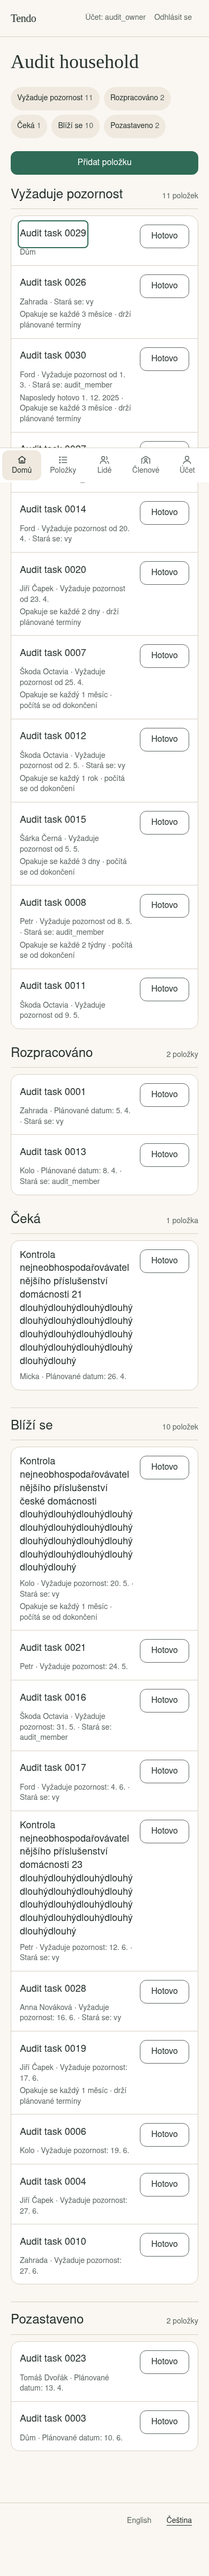
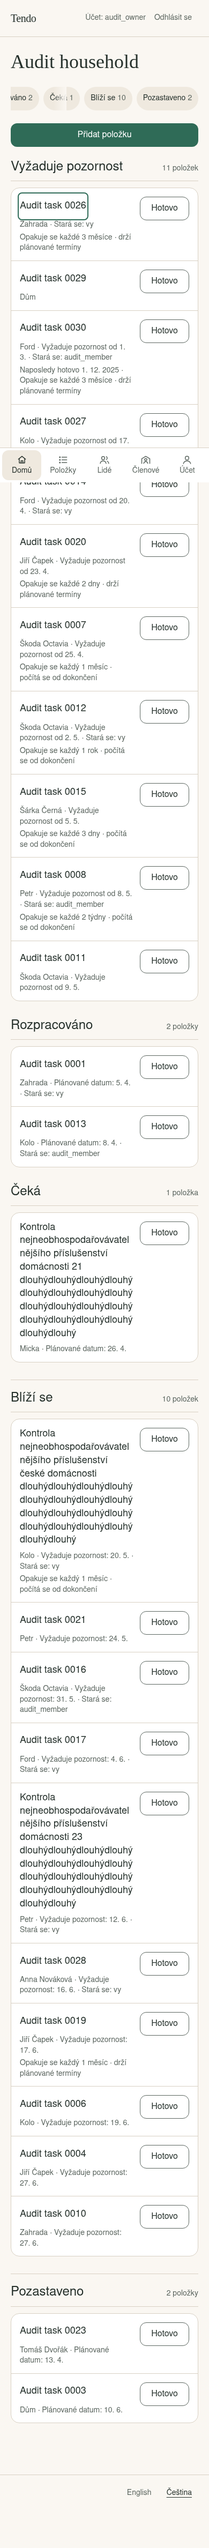
fix(home): preserve focus and balance large layouts

diff --git a/frontend/src/features/items/ItemsScreen.test.tsx b/frontend/src/features/items/ItemsScreen.test.tsx
@@ -751,6 +751,25 @@ describe('Home items', () => {
     expect([...rows].filter((row) => row.querySelector('a > span[aria-hidden="true"]')).map((row) => row.querySelector('a > span[aria-hidden="true"]')?.textContent)).toEqual(['Need now', 'Started', 'Waiting item', 'Future item', 'Paused item']);
   });
 
+  it('stacks independently paged groups when secondary content greatly exceeds attention', async () => {
+    const entries = [
+      ...Array.from({ length: 2 }, (_, index) => item({ id: `scale-needs-${index}`, title: `Scale needs ${index}` })),
+      ...Array.from({ length: 20 }, (_, index) => item({ id: `scale-progress-${index}`, title: `Scale progress ${index}`, workflowState: 'in_progress' })),
+    ];
+    installFakeServer({ ...routes, ...itemRoutes(base, entries), [subjectList]: subjects });
+    app();
+    await screen.findByRole('link', { name: 'Open item Scale needs 0' });
+    const main = screen.getByRole('main');
+    expect(main.querySelector('[data-home-layout="balanced-stacked"]')).toBeInTheDocument();
+    expect(main.querySelector('.lg\\:grid-cols-\\[minmax\\(0\\,1\\.35fr\\)_minmax\\(20rem\\,1fr\\)\\]')).toBeNull();
+    const needs = within(main).getByRole('heading', { level: 2, name: 'Needs attention 2 items' }).closest('section')!;
+    const progress = within(main).getByRole('heading', { level: 2, name: 'In progress 20 items' }).closest('section')!;
+    expect(within(needs).getAllByRole('listitem')).toHaveLength(2);
+    expect(within(progress).getAllByRole('listitem')).toHaveLength(20);
+    const overview = within(main).getByRole('navigation', { name: 'Group overview' });
+    expect(within(overview).getByRole('link', { name: 'In progress 20 items' })).toBeVisible();
+  });
+
   it('uses a full-width secondary layout when Needs attention is empty', async () => {
     installFakeServer({ ...routes, ...itemRoutes(base, [item({ workflowState: 'in_progress' })]), [subjectList]: subjects });
     app();
@@ -1307,7 +1326,7 @@ describe('Home items', () => {
     expect(add).toBeEnabled();
     expect(screen.getByRole('button', { name: /Done:/ })).toBeDisabled();
     release();
-    await waitFor(() => expect(screen.queryByRole('button', { name: 'Add item' })).toBeEnabled());
+    await waitFor(() => expect(add).toBeEnabled());
   });
 
   it('focuses the restored group heading when undo restores an unloaded row', async () => {
@@ -1468,6 +1487,52 @@ describe('Home items', () => {
     await waitFor(() => expect(screen.getByRole('button', { name: /Done:/ })).toBeEnabled());
     await act(async () => { await new Promise((resolve) => setTimeout(resolve, 50)); });
     expect(screen.queryByRole('button', { name: 'Undo' })).toBeNull();
+    expect(add).toHaveFocus();
+  });
+
+  it('keeps the same Add button focused when Undo repopulates empty Home', async () => {
+    let completed = false;
+    let releaseUndo: (() => void) | undefined;
+    const receipt = { id: 'c-empty-undo', itemId: 'i-1', completedOn: '2026-01-01', completedByUserId: 'u-1', cycleAttentionOn: null, recurrence: null, nextAttentionOn: null, createdAt: '2026-01-01T00:00:00Z', undoneAt: null, undoneByUserId: null };
+    installFakeServer({
+      ...routes,
+      ...itemRoutes(base, () => completed ? [] : [item()]),
+      [subjectList]: subjects,
+      [`GET ${base}/items/i-1`]: () => json(200, item(), { ETag: completed ? '"8"' : '"7"' }),
+      [`POST ${donePath}`]: () => { completed = true; return json(201, receipt); },
+      [`PATCH ${donePath}/c-empty-undo`]: () => new Promise<Response>((resolve) => {
+        releaseUndo = () => { completed = false; resolve(json(200, { ...receipt, undoneAt: '2026-01-02T00:00:00Z', undoneByUserId: 'u-1' })); };
+      }),
+    });
+    app();
+    await userEvent.click(await screen.findByRole('button', { name: /Done:/ }));
+    await screen.findByText('Nothing needs attention right now.');
+    await userEvent.click(await screen.findByRole('button', { name: 'Undo' }));
+    await waitFor(() => expect(releaseUndo).toBeDefined());
+    const add = screen.getByRole('button', { name: 'Add item' });
+    add.focus();
+    await act(async () => releaseUndo!());
+    await screen.findByRole('link', { name: 'Open item Renew passport' });
+    expect(screen.getByRole('button', { name: 'Add item' })).toBe(add);
+    expect(add).toHaveFocus();
+  });
+
+  it('keeps Add focused when completing the last item makes Home empty', async () => {
+    let done = false;
+    const receipt = { id: 'c-empty-done', itemId: 'i-1', completedOn: '2026-01-01', completedByUserId: 'u-1', cycleAttentionOn: null, recurrence: null, nextAttentionOn: null, createdAt: '2026-01-01T00:00:00Z', undoneAt: null, undoneByUserId: null };
+    installFakeServer({
+      ...routes,
+      ...itemRoutes(base, () => done ? [] : [item()]),
+      [subjectList]: subjects,
+      [`GET ${base}/items/i-1`]: json(200, item(), { ETag: '"7"' }),
+      [`POST ${donePath}`]: () => { done = true; return json(201, receipt); },
+    });
+    app();
+    await userEvent.click(await screen.findByRole('button', { name: /Done:/ }));
+    const add = screen.getByRole('button', { name: 'Add item' });
+    add.focus();
+    await screen.findByText('Nothing needs attention right now.');
+    expect(screen.getByRole('button', { name: 'Add item' })).toBe(add);
     expect(add).toHaveFocus();
   });
 

diff --git a/frontend/src/features/items/ItemsScreen.tsx b/frontend/src/features/items/ItemsScreen.tsx
@@ -1,4 +1,4 @@
-import { useMemo, useRef, useState } from 'react';
+import { useMemo, useRef, useState, type RefObject } from 'react';
 import { Button } from '../../components/ui/button';
 import { useI18n } from '../../i18n';
 import { useSubjectLabels } from './useSubjectLabels';
@@ -88,7 +88,8 @@ export function ItemsScreen(props: ItemsScreenProps) {
   const { userId, onOpenPeople, onOpenItem, onOpenAllItems } = props;
   const screen = useItemsScreen(props);
   const { t, busy, home, homeMembers, noticeRef, addRef, notice, visibleSubjectIDs, labels, labelRetry, add, recovering, completion } = screen;
-  const { cancelAddAndFocus, subjectName, emptyHome } = screen;
+  const { cancelAddAndFocus, subjectName, emptyHome: isEmptyHome = false } = screen;
+  const emptyHome = Boolean(isEmptyHome);
   const { groupData, summary, loading, error, refresh, sectionHeadingRefs } = home;
   const { adding, createNotice, names, pendingCreate, createUncertain, recoveryEditable } = add;
 
@@ -116,17 +117,10 @@ export function ItemsScreen(props: ItemsScreenProps) {
       ? <p role="status" className="sr-only">{t('items.subjectLabels.loading')}</p>
       : null}
     <SubjectLabelRetry hasFailures={labels.hasFailures} pending={labelRetry.pending} retryRef={labelRetry.retryRef} onRetry={labelRetry.retry} />
-    {emptyHome ? <HomeEmptyState onAdd={add.openAddForm} addRef={addRef} /> : null}
     {!loading && summary && !adding
       ? <HomeOverviewNav summary={summary} groupData={groupData} sectionHeadingRefs={sectionHeadingRefs} />
       : null}
-    {home.itemsRequestComplete && !adding && !emptyHome
-      ? <div className="flex justify-start">
-        <Button ref={addRef} data-action="completion-trigger" type="button" onClick={add.openAddForm} className="w-full sm:w-auto">
-          {t('items.add')}
-        </Button>
-      </div>
-      : null}
+    <HomeActions empty={emptyHome} ready={home.itemsRequestComplete} adding={adding} addRef={addRef} onAdd={add.openAddForm} />
     <AddItemPanel
       adding={adding}
       busy={busy}
@@ -159,5 +153,32 @@ export function ItemsScreen(props: ItemsScreenProps) {
       onDone={(itemId) => void completion.finish(itemId)}
       onOpenItem={onOpenItem}
     /> : null}
+  </div>;
+}
+
+function HomeActions({ empty, ready, adding, addRef, onAdd }: {
+  empty: boolean;
+  ready: boolean;
+  adding: boolean;
+  addRef: RefObject<HTMLButtonElement | null>;
+  onAdd: () => void;
+}) {
+  const { t } = useI18n();
+  if (!ready) return null;
+  return <div className="space-y-4">
+    <div className={`flex justify-start ${adding ? 'hidden' : ''}`}>
+      <Button
+        ref={addRef}
+        data-action="completion-trigger"
+        type="button"
+        aria-hidden={adding}
+        tabIndex={adding ? -1 : 0}
+        onClick={onAdd}
+        className="w-full sm:w-auto"
+      >
+        {t('items.add')}
+      </Button>
+    </div>
+    {empty ? <HomeEmptyState /> : null}
   </div>;
 }

diff --git a/frontend/src/features/items/HomeOverview.tsx b/frontend/src/features/items/HomeOverview.tsx
@@ -6,8 +6,8 @@ import { countPluralKey } from './itemsScreenHelpers';
 import { groups, type GroupData } from './homeGroups';
 import type { CreateNotice } from './useAddItem';
 
-const overviewLinkClass = 'inline-flex min-h-11 items-center gap-1 rounded-full bg-sand px-3 text-sm font-medium text-ink '
-  + 'transition-colors hover:bg-sunken focus-visible:outline-2 focus-visible:outline-offset-2 focus-visible:outline-accent';
+const overviewLinkClass = 'inline-flex min-h-11 shrink-0 items-center gap-1 rounded-full bg-sand px-3 text-sm font-medium text-ink '
+  + 'transition-colors hover:bg-sand focus-visible:outline-2 focus-visible:outline-offset-2 focus-visible:outline-accent';
 
 /** Completion/undo outcome shown in the home notice area; Undo and retry controls depend on its fields. */
 export type Notice = {
@@ -104,7 +104,24 @@ export function HomeOverviewNav({ summary, groupData, sectionHeadingRefs }: Over
   // Overview links only target sections that actually render (summary count and loaded rows), so every link has a heading to focus.
   const overviewGroups = groups.filter((group) => summary[group.count] > 0 && groupData[group.id].items.length > 0);
   if (overviewGroups.length < 2) return null;
-  return <nav aria-label={t('items.group.overview')} className="flex flex-wrap gap-2">
+  return <nav
+    aria-label={t('items.group.overview')}
+    className={[
+      'relative flex w-full min-w-0 snap-x snap-mandatory gap-2 overflow-x-auto overscroll-x-contain',
+      '[scrollbar-width:none] [&::-webkit-scrollbar]:hidden',
+      'after:pointer-events-none after:absolute after:inset-y-0 after:right-0 after:w-6',
+      'after:bg-gradient-to-l after:from-paper after:to-transparent',
+    ].join(' ')}
+    onFocusCapture={(event) => {
+      const link = event.target;
+      const nav = event.currentTarget;
+      if (!(link instanceof HTMLElement)) return;
+      const navRect = nav.getBoundingClientRect();
+      const linkRect = link.getBoundingClientRect();
+      if (linkRect.left < navRect.left) nav.scrollLeft -= navRect.left - linkRect.left;
+      else if (linkRect.right > navRect.right) nav.scrollLeft += linkRect.right - navRect.right;
+    }}
+  >
     {overviewGroups.map((group) => <a
       key={group.id}
       href={`#group-${group.id}`}
@@ -115,7 +132,7 @@ export function HomeOverviewNav({ summary, groupData, sectionHeadingRefs }: Over
         event.preventDefault();
         sectionHeadingRefs.current.get(group.id)?.focus();
       }}
-      className={overviewLinkClass}
+      className={`${overviewLinkClass} snap-start`}
     >{t(group.key)} <span className="text-muted">{summary[group.count]}</span></a>)}
   </nav>;
 }

diff --git a/frontend/src/features/items/HomeGroupList.tsx b/frontend/src/features/items/HomeGroupList.tsx
@@ -23,6 +23,7 @@ type HomeGroupListProps = {
 };
 
 const TWO_COLUMN_CLASS = 'grid grid-cols-1 items-start gap-8 lg:grid-cols-[minmax(0,1.35fr)_minmax(20rem,1fr)]';
+const STACKED_CLASS = 'grid grid-cols-1 items-start gap-8';
 
 /** Puts attention first and lets the quieter groups form an independent desktop column. */
 export function HomeGroupList(props: HomeGroupListProps) {
@@ -62,11 +63,13 @@ export function HomeGroupList(props: HomeGroupListProps) {
   const primary = groups[0]!;
   const secondary = groups.slice(1);
   const hasPrimary = groupData[primary.id].items.length > 0;
-  const layoutClass = hasPrimary ? TWO_COLUMN_CLASS : 'grid grid-cols-1 items-start';
-  const columnClass = 'min-w-0 space-y-8';
-  const layoutName = hasPrimary ? 'attention-and-secondary' : 'secondary-only';
+  const secondaryCount = secondary.reduce((total, group) => total + groupData[group.id].items.length, 0);
+  const needsCount = groupData[primary.id].items.length;
+  const secondaryDominates = hasPrimary && secondaryCount >= Math.max(20, needsCount * 3);
+  const layoutClass = hasPrimary && !secondaryDominates ? TWO_COLUMN_CLASS : STACKED_CLASS;
+  const layoutName = !hasPrimary ? 'secondary-only' : secondaryDominates ? 'balanced-stacked' : 'attention-and-secondary';
   return <div data-home-layout={layoutName} className={layoutClass}>
-    {hasPrimary ? <div className={columnClass}>{renderGroup(primary)}</div> : null}
-    <div className={columnClass}>{secondary.map(renderGroup)}</div>
+    {hasPrimary ? renderGroup(primary) : null}
+    {secondary.map(renderGroup)}
   </div>;
 }

diff --git a/frontend/e2e/ux-audit.spec.ts b/frontend/e2e/ux-audit.spec.ts
@@ -662,6 +662,11 @@ Třetí odstavec obsahuje další důležité podrobnosti, které mají zůstat 
         (metrics.stages[`1200-en-${width}`] as Record<string, unknown>).showMoreClicks = clickMetrics;
         (metrics.stages[`1200-en-${width}`] as Record<string, unknown>).seeAllLinks = await page.locator('main a[data-group-all]').evaluateAll(links => links.map(link => ({ group: link.getAttribute('data-group-all'), label: link.textContent?.trim() })));
         await capture(page, join(dir, `home-1200-en-${width}-expanded.png`), false);
+        if (width === 1440) {
+          await page.locator('html').evaluate((html) => html.setAttribute('data-theme', 'dark'));
+          await capture(page, join(dir, `home-1200-en-${width}-forced-dark.png`), false);
+          await page.locator('html').evaluate((html) => html.removeAttribute('data-theme'));
+        }
       }
       const darkContext = await browser.newContext({ colorScheme: 'dark', reducedMotion: 'reduce', viewport: { width: 390, height: 844 } });
       await darkContext.addCookies(await page.context().cookies());

diff --git a/frontend/e2e/journey.spec.ts b/frontend/e2e/journey.spec.ts
@@ -1872,7 +1872,9 @@ test.describe('Tendo production journey', () => {
       }));
       const initialUniqueSubjects = new Set(renderedItems.map((item) => item.subjectId));
       expect(initialUniqueSubjects.size).toBe(4);
-      await expect(main.locator('li[data-item-id]').filter({ hasText: visibleTitles[0]! }).locator('p').first()).toContainText(archivedSubject.name);
+      const archivedRowMetadata = main.locator('li[data-item-id]').filter({ hasText: visibleTitles[0]! }).locator('p').first();
+      await expect(archivedRowMetadata).toBeVisible();
+      await expect(archivedRowMetadata).toContainText(archivedSubject.name);
       await expect.poll(() => subjectRequests.length).toBe(2 * Math.ceil(initialUniqueSubjects.size / 100));
       expect(subjectRequests.every((url) => url.searchParams.has('id'))).toBe(true);
       expect(subjectRequests.filter((url) => url.searchParams.get('archived') === 'true')).toHaveLength(Math.ceil(initialUniqueSubjects.size / 100));

diff --git a/frontend/src/features/items/HomeStates.tsx b/frontend/src/features/items/HomeStates.tsx
@@ -1,4 +1,3 @@
-import type { RefObject } from 'react';
 import { Button } from '../../components/ui/button';
 import { EmptyState } from '../../components/ui/empty-state';
 import { Notice } from '../../components/ui/notice';
@@ -21,11 +20,9 @@ export function HomeLoadState({ loading, error, onRetry }: { loading: boolean; e
   </>;
 }
 
-export function HomeEmptyState({ onAdd, addRef }: { onAdd: () => void; addRef: RefObject<HTMLButtonElement | null> }) {
+export function HomeEmptyState() {
   const { t } = useI18n();
-  return <EmptyState title={t('home.empty.title')} action={
-    <Button ref={addRef} type="button" onClick={onAdd}>{t('items.add')}</Button>
-  }>
+  return <EmptyState title={t('home.empty.title')}>
     <p>{t('home.empty.body')} {t('home.empty.addHint')}</p>
   </EmptyState>;
 }

diff --git a/docs/design/v3-home.md b/docs/design/v3-home.md
@@ -24,11 +24,13 @@ The current item schema represents one `responsibleUserId`; the Home view displa
 
 ## Desktop composition
 
-At 1024px and wider, when Needs attention exists, the group layout uses independent columns (wider attention / narrower secondary) with `items-start`; there is no shared row alignment. The second column contains In progress, Waiting, Coming up, and Paused in their existing order. With no attention rows, the secondary column becomes the only column. At phone/tablet widths the same order becomes one vertical stack. Group caps, Show more, See all, and overview focus behavior are retained.
+At 1024px and wider, populated Home usually uses independent columns (wider attention / narrower secondary) with `items-start`; there is no shared row alignment. If secondary loaded rows are at least 20 and at least three times the attention rows, Home switches to one stacked column at desktop too. This large-scale balance rule fills the primary-column void when several capped secondary groups greatly exceed a short attention list. When Needs attention is empty, the secondary groups are stacked as the only column. The threshold uses already-loaded per-group counts, preserves server summary counts, and does not change group paging or requests. The n11 fixture (3 attention / 120 coming up, only 25 initially rendered) keeps its count and pagination behavior, while the 1440px 1200-item audit now stacks the groups so the short attention list does not leave a wide blank column. At phone/tablet widths groups always stack. Group caps, Show more, See all, and overview focus behavior are retained.
+
+Add is one stable button in one stable wrapper once the initial Home read completes. EmptyState renders its own explanatory text before the same button; it does not own a second Add control. A refresh keeps the action mounted even while loading; the wrapper is hidden only while the add form is open, preserving the established return-focus reference.
 
 ## Screenshot critique
 
-The refreshed 1440px capture keeps independent attention and secondary columns, with Done beside the flexible text column and metadata clear of the title focus outline. At 390px, Done remains consistently right-aligned rather than wrapping below row text. In the 320px Czech view, the action stays beside the title even when longer row details wrap; the shell account controls wrap and bottom navigation crowds the fold. Captures are scripted evidence only; no household user testing is claimed.
+At 1440px, ordinary-size datasets use independent attention and secondary columns; the 1200-item expanded capture now stacks the groups after the balance threshold so the secondary workload fills the page. Done stays beside its flexible text column, and metadata clears the title focus outline. At 390px, the action remains right-aligned instead of wrapping below the row. In the 320px Czech view, the action stays beside the title while long metadata wraps; the account controls wrap and bottom navigation still crowds the fold. The overview is one horizontally scrollable chip row with focus-driven horizontal reveal and a subtle right fade; the 320px n15/audit overflow checks pass. In the 1200-item expanded 1440px capture, the layout switches to one stacked column so the secondary groups use the width below Needs attention rather than leaving a blank side column. Captures are scripted evidence only; no household user testing is claimed.
 
 ## States and behavior
 

diff --git a/docs/design/v3-home/CAPTURES.md b/docs/design/v3-home/CAPTURES.md
@@ -7,7 +7,7 @@ Command pattern:
 ```sh
 source ~/.config/tendo-test/env
 TENDO_UX_AUDIT_DIR=/tmp/opencode/v308-before-captures bash scripts/dev-exec.sh -- bash -c 'cd /tmp/opencode/v308-before && bash scripts/e2e-smoke.sh'
-TENDO_UX_AUDIT_DIR=/tmp/opencode/v308-review3-captures bash scripts/dev-exec.sh -- bash scripts/e2e-smoke.sh
+TENDO_UX_AUDIT_DIR=/tmp/opencode/v308-complete-captures bash scripts/dev-exec.sh -- bash scripts/e2e-smoke.sh
 ```
 
 | Before | After | Purpose |
@@ -22,7 +22,7 @@ TENDO_UX_AUDIT_DIR=/tmp/opencode/v308-review3-captures bash scripts/dev-exec.sh 
 | `before/home-30-cs-320-fold.png`, `390-fold.png`, `1440-fold.png` | matching files | Czech wrapping |
 | `before/home-500-en-390-fold.png` | `after/home-500-en-390-fold.png` | Large stage |
 | `before/home-1200-en-390-fold.png`, `1440-fold.png` | `after/` matching files | 1,000+ stage / cap navigation |
-| — | `after/home-1200-en-390-forced-dark.png`, `1440-forced-dark.png` | Explicit dark-token readiness |
+| — | `after/home-1200-en-390-forced-dark.png`, `1440-forced-dark.png` | Explicit dark-token readiness (the 1440 capture is full-page after expansion) |
 | `before/audit-home-server-error-en-390.png` | `after/` same | Error/retry state |
 | `before/home-30-cs-390.png` | `after/` same | Long Czech title/data |
 
